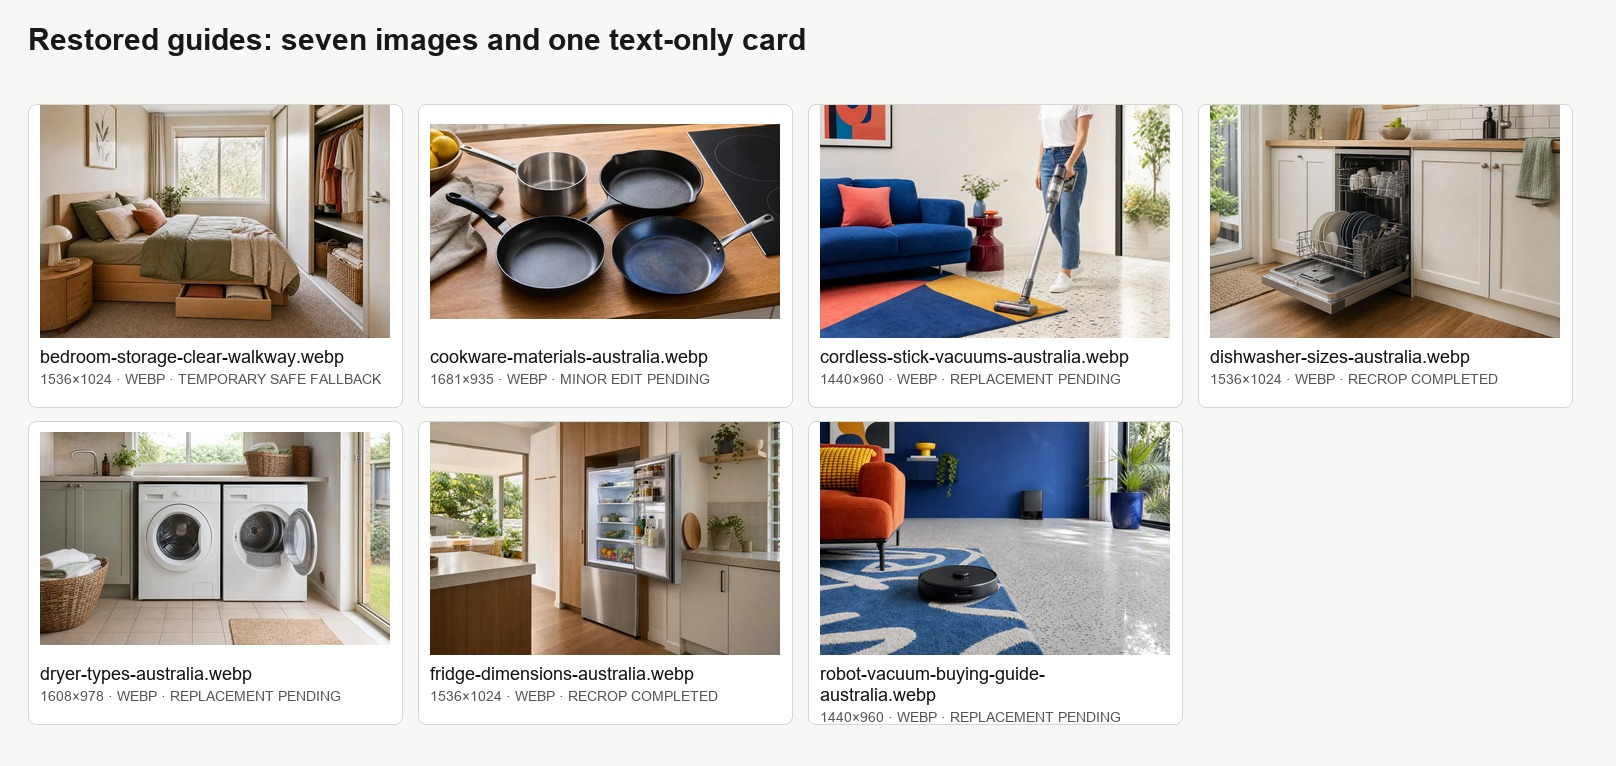
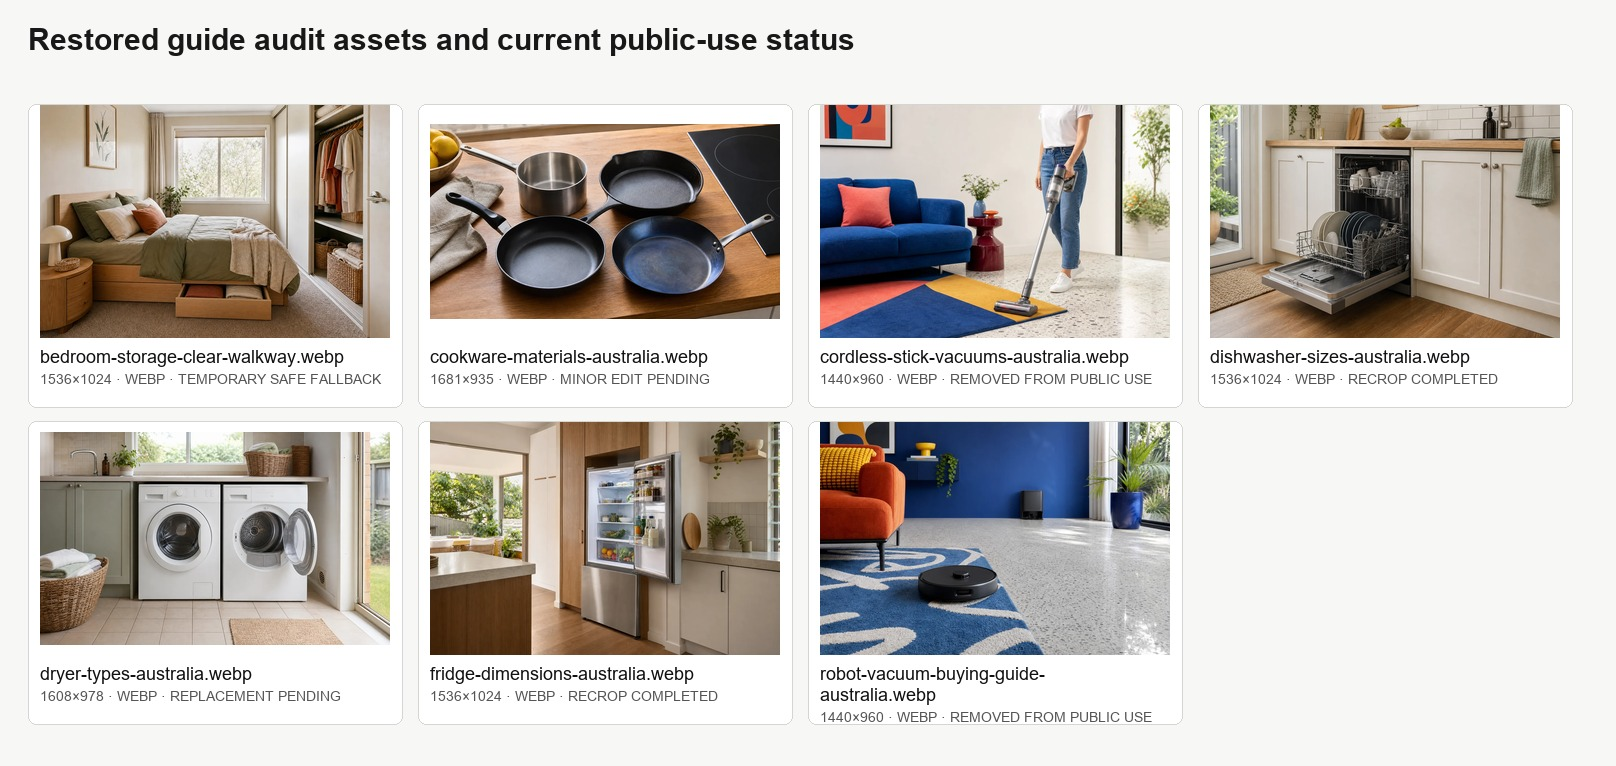
Replace product-like guide imagery with neutral fallbacks

Changed region(s): [[0.1547, 0.03, 0.526, 0.0901], [0.5879, 0.9308, 0.7116, 0.9608], [0.5879, 0.4804, 0.7116, 0.5104]]

diff --git a/scripts/build-image-audit.py b/scripts/build-image-audit.py
@@ -640,7 +640,7 @@ def main() -> None:
         ),
         (
             "contact-sheet-restored-guides.jpg",
-            "Restored guides: seven images and one text-only card",
+            "Restored guide audit assets and current public-use status",
             records_for_paths(RESTORED_GUIDES),
         ),
         (

diff --git a/docs/visual/image-audit.md b/docs/visual/image-audit.md
@@ -74,9 +74,9 @@ Quality status records what is in the repository. It does not imply that an urge
 | --- | ---: |
 | FINAL KEEP | 19 |
 | TEMPORARY SAFE FALLBACK | 3 |
-| TEMPORARILY REMOVED FROM PUBLIC USE | 3 |
+| TEMPORARILY REMOVED FROM PUBLIC USE | 5 |
 | RECROP COMPLETED | 2 |
-| REPLACEMENT ASSET PENDING | 23 |
+| REPLACEMENT ASSET PENDING | 21 |
 | MINOR EDIT PENDING | 2 |
 
 ### Palette diagnostic
@@ -99,8 +99,8 @@ The dominant issue is not one prohibited colour. It is the repeated combination 
 
 1. **Category fallbacks are doing the work of guide imagery.** Ten files serve 90 guide heroes. A generic room cannot truthfully illustrate specific advice about appliance clearances, renter constraints, cable routes, furniture anchoring or storage geometry.
 2. **The palette is repetitive.** Beige or cream appears in 41 files, brown in 38 and warm grading in 27. Much of the site therefore reads as one decor collection rather than a varied editorial publication.
-3. **Three repository files have credibility defects but are no longer public.** The pet fallback contains invented package labels, the mattress has a physically implausible measuring device fused into it, and the coffee image presents fictional appliances like assessed products. Each now has zero public references.
-4. **Several restored-guide images decorate rather than explain.** The cordless-vacuum, robot-vacuum and dryer images show the product category but omit important planning constraints.
+3. **Five repository files with credibility or endorsement concerns are no longer public.** The pet fallback contains invented package labels, the mattress has a physically implausible measuring device, the coffee image presents fictional appliances like assessed products, and the robot and cordless vacuum images resemble current product designs. Each now has zero public references.
+4. **Some restored-guide images still decorate rather than explain.** The dryer image shows the product category but omits the installation differences central to the guide. Robot and cordless vacuum now use neutral room fallbacks pending purpose-built replacements.
 5. **Most social cards repeat the same weak sources.** Nine category Open Graph cards still embed a logo and headline beside generic fallback photography. The Pets social image is now a clean 1200 × 630 crop of the approved temporary source.
 6. **Alt text has been adapted to the article while the image has not.** The same fallback receives many different descriptions, including details that are not visible.
 7. **Wide hero crops require deliberate focal positions.** Fridge and dishwasher are now repaired; other 3:2 sources still need safe-area checks when reused.
@@ -439,8 +439,10 @@ The first two repairs are complete. The remaining entries are strong sources who
 | `public/images/pet.webp` | Invented package labels, implausible multi-species showroom and obvious generated staging. | 0 references. File retained; temporary pet source installed. |
 | `public/images/guides/mattress-sizes-australia.webp` | Measuring strip and device appear physically fused into the mattress. | 0 references. File retained; safe bedroom-clearance source installed. |
 | `public/images/guides/coffee-machine-types-australia.webp` | Fictional appliances with invented controls presented like assessed retail products. | 0 references. File retained; article and featured card are text-only. |
+| `public/images/guides/robot-vacuum-buying-guide-australia.webp` | Current-product resemblance and heavily themed generated styling. | 0 references. File retained; approved neutral living-room fallback installed. |
+| `public/images/guides/cordless-stick-vacuums-australia.webp` | Premium-vacuum resemblance and heavily themed generated styling. | 0 references. File retained; approved neutral living-room fallback installed and featured card made text-only. |
 
-The current robot-vacuum file was checked at full resolution. It does not have a cord running to the robot, fake labels or malformed geometry. The cordless-vacuum file has no incorrect power connection or fake label, and its handling geometry is plausible. The dryer has coherent doors and installation geometry and no visible branding. Their replacement status is based on weak editorial explanation or repetitive styling, not an emergency safety defect.
+The robot and cordless-vacuum files were checked at full resolution before removal. Neither has the previously suspected cable or geometry defect, but both are now withheld because of endorsement risk and repetitive styling. The dryer has coherent doors and installation geometry and no visible branding; its replacement status remains based on weak editorial explanation rather than an emergency safety defect.
 
 ## Images reused across unrelated guides
 
@@ -631,10 +633,10 @@ The inventory preserves every discovered alt value. The principal problem is sem
 | `guides/pet-essentials-home-zones.webp` | 2 | All temporary fallback uses now share one truthful general description; the original pet-essentials article retains its more specific before-and-after description. |
 | `guides/bedroom-storage-clear-walkway.webp` | 2 | Mattress article and card use one clearance description; the original bedroom-storage article retains its specific after-image description. |
 | `guides/pet-essentials-before-scattered-supplies.webp` | 2 | Companion usage differs only in presentation context; review punctuation when public alt text is next edited. |
+| `guides/living-room-storage-before-cluttered-zones.webp` | 3 | Original living-room storage use plus the robot-vacuum hero and featured card; the shared wording stays truthful and emphasises floor-level obstacles. |
+| `guides/living-room-storage-everyday-zones.webp` | 2 | Original living-room storage use plus the cordless-vacuum hero; both uses truthfully show floor surfaces, low furniture and a clear route. |
 | `guides/fridge-dimensions-australia.webp` | 2 | Guide hero and Guides Index descriptions differ slightly. |
 | `guides/cookware-materials-australia.webp` | 2 | Guide hero and Guides Index descriptions differ slightly. |
-| `guides/cordless-stick-vacuums-australia.webp` | 2 | Guide hero and Guides Index descriptions differ slightly. |
-| `guides/robot-vacuum-buying-guide-australia.webp` | 2 | Guide hero and Guides Index descriptions differ slightly. |
 
 When imagery is repaired, each alt description should state what is actually visible and relevant in that specific file. It should not be rewritten to make a generic image sound guide-specific.
 
@@ -691,16 +693,16 @@ Scores are averages of topic relevance, realism, colour and visual interest, com
 
 - **Route:** `/guides/cordless-stick-vacuums-australia/`
 - **File:** `public/images/guides/cordless-stick-vacuums-australia.webp`
-- **Status and score:** REPLACEMENT ASSET PENDING — 3.00/5.
-- **Recommendation:** Keep temporarily. Full-resolution review found no incorrect power lead, fake label or malformed handling geometry requiring emergency removal. Replace with a storage-and-charging scene rather than another person vacuuming.
+- **Status and score:** TEMPORARILY REMOVED FROM PUBLIC USE — 3.00/5.
+- **Recommendation:** The dedicated file remains in the repository with zero public references. The article temporarily uses `living-room-storage-everyday-zones.webp`, while its featured Guides card is text-only to avoid placing two near-identical room cards side by side.
 - **Generation brief:** Photorealistic Australian laundry or utility cupboard, landscape 16:9 with storage details inside a central 20:9 safe band. Show an unbranded cordless stick vacuum being placed into a stable wall-mounted charging dock, with the dock’s power lead routed neatly to a nearby Australian power point. Include two realistic attachments, door clearance and enough room to remove the vacuum. The person’s hand and grip must be anatomically correct. Use mixed painted and metal surfaces with natural daylight and one modest colour accent. The vacuum itself must remain cordless: no cable attached to its body while in use. No floating dock, malformed floor head, copied branded silhouette, fake labels, impossible charging contact, theatrical colour blocking or text. Suggested alt: `An unbranded cordless stick vacuum beside a wall-mounted charging dock and organised attachments in a utility cupboard.`
 
 ### Robot vacuum
 
 - **Route:** `/guides/robot-vacuum-buying-guide-australia/`
 - **File:** `public/images/guides/robot-vacuum-buying-guide-australia.webp`
-- **Status and score:** REPLACEMENT ASSET PENDING — 3.33/5.
-- **Recommendation:** Keep temporarily. The current file has no tethering cord, fake label or malformed geometry, but it still needs a more lived-in navigation scene with useful obstacles.
+- **Status and score:** TEMPORARILY REMOVED FROM PUBLIC USE — 3.33/5.
+- **Recommendation:** The dedicated file remains in the repository with zero public references. The article and featured Guides card temporarily use `living-room-storage-before-cluttered-zones.webp`, which truthfully shows floor-level obstacles and room context without depicting a specific product.
 - **Generation brief:** Photorealistic ordinary Australian living area, landscape 16:9 with all navigation details in a central 20:9 safe band. Show an unbranded robot vacuum away from its dock and approaching a low-pile rug edge. Include dining-chair legs, low sofa clearance, a threshold or floor-material change, one loose charging cable near but not attached to the robot, and one pet toy or sock as a realistic obstacle. The dock should be against a wall with its own lead correctly connected to a power point and clear approach space. Use balanced daylight, varied materials and natural colour rather than a cobalt-and-orange theme. No lead attached to the robot, floating dock, impossible reflections, malformed wheels, copied branded lidar housing, empty showroom or text. Suggested alt: `An unbranded robot vacuum navigating a rug edge, furniture legs and loose obstacles near its charging dock.`
 
 ### Coffee machine types
@@ -729,4 +731,4 @@ The regenerated audit completes with:
 - 3 perceptual near-duplicate pairs.
 - all seven contact sheets rebuilt with current public-use status labels.
 
-The public build remains at 140 pages. Source and built output contain no references to `pet.webp`, `guides/mattress-sizes-australia.webp` or `guides/coffee-machine-types-australia.webp`.
+The public build remains at 140 pages. Source and built output contain no references to `pet.webp`, `guides/mattress-sizes-australia.webp`, `guides/coffee-machine-types-australia.webp`, `guides/robot-vacuum-buying-guide-australia.webp` or `guides/cordless-stick-vacuums-australia.webp`.